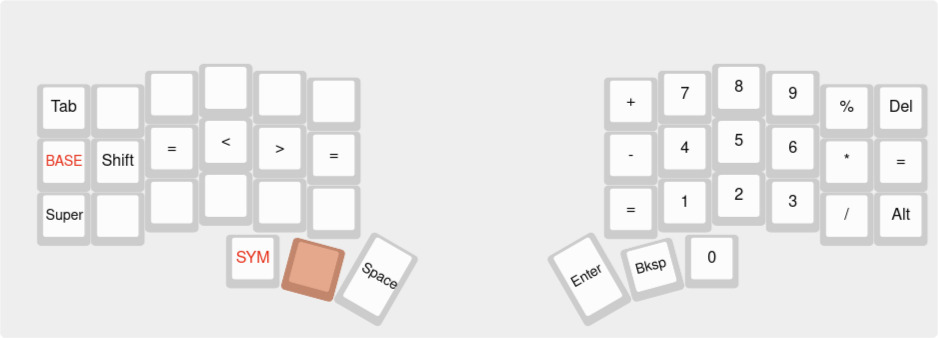
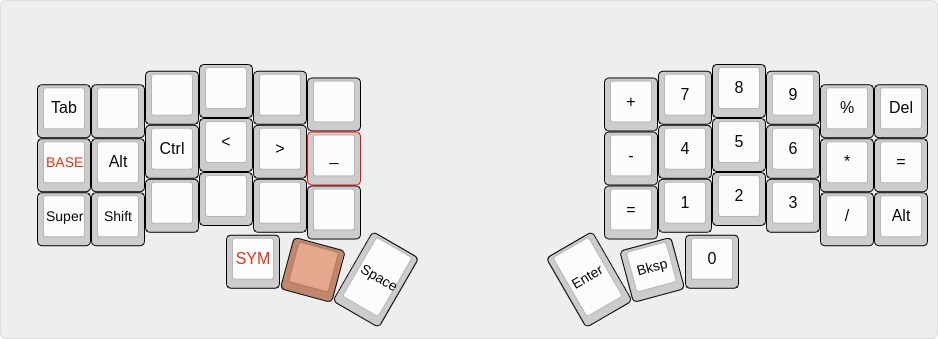
add alt/ctrl/_ to the numpad layer

Changed region(s): [[0.5874, 0.1775, 0.9893, 0.9763], [0.0309, 0.1775, 0.4328, 0.9467], [0.4328, 0.7396, 0.4638, 0.7988]]

diff --git a/keyboards/crkbd/keymaps/pogues/keymap.c b/keyboards/crkbd/keymaps/pogues/keymap.c
@@ -43,8 +43,9 @@ enum userspace_layers {
 #define L_MOTION (1 << LMOV)
 
 #define MY_CESC MT(MOD_LCTL, KC_ESC)
+#define MY_CQOT MT(MOD_LCTL, KC_QUOT)
 #define MY_S_SL MT(MOD_LSFT, KC_SLSH)
-#define MY_S_Z  MT(MOD_LSFT, KC_Z)
+#define MY_S_Z  MT(MOD_LSFT, KC_Z)CTRL
 #define MY_TBUI MT(MOD_LGUI, KC_TAB)
 #define MY_CLFT C(KC_LEFT)
 #define MY_CRGT C(KC_RGHT)
@@ -67,17 +68,14 @@ enum tap_dance_codes {
     DC7,
     DC8,
     DC9,
-    // 
-    DC10,
-    DC11,
 };
 
 const uint16_t PROGMEM keymaps[][MATRIX_ROWS][MATRIX_COLS] = {
   [LCMK] = LAYOUT_split_3x6_3(
   //,-----------------------------------------------------.                    ,-----------------------------------------------------.
-      MY_TBUI,    KC_Q,    KC_W,    KC_F,    KC_P,    KC_G,                         KC_J,    KC_L,    KC_U,    KC_Y,TD(DC10), KC_BSPC,
+      MY_TBUI,    KC_Q,    KC_W,    KC_F,    KC_P,    KC_G,                         KC_J,    KC_L,    KC_U,    KC_Y, KC_SCLN, KC_BSPC,
   //|--------+--------+--------+--------+--------+--------|                    |--------+--------+--------+--------+--------+--------|
-      MY_CESC,    KC_A,    KC_R,    KC_S,    KC_T,    KC_D,                         KC_H,    KC_N,    KC_E,    KC_I,    KC_O,TD(DC11),
+      MY_CESC,    KC_A,    KC_R,    KC_S,    KC_T,    KC_D,                         KC_H,    KC_N,    KC_E,    KC_I,    KC_O, MY_CQOT,
   //|--------+--------+--------+--------+--------+--------|                    |--------+--------+--------+--------+--------+--------|
 OSM(MOD_LSFT),  MY_S_Z,    KC_X,    KC_C,    KC_V,    KC_B,                         KC_K,    KC_M, KC_COMM,  KC_DOT, MY_S_SL, KC_LALT,
   //|--------+--------+--------+--------+--------+--------+--------|  |--------+--------+--------+--------+--------+--------+--------|
@@ -90,7 +88,7 @@ OSM(MOD_LSFT),  MY_S_Z,    KC_X,    KC_C,    KC_V,    KC_B,                     
   //,-----------------------------------------------------.                    ,-----------------------------------------------------.
       _______, XXXXXXX, XXXXXXX, XXXXXXX, XXXXXXX, XXXXXXX,                      KC_PLUS, TD(DC7), TD(DC8), TD(DC9), KC_PERC,  KC_DEL,
   //|--------+--------+--------+--------+--------+--------|                    |--------+--------+--------+--------+--------+--------|
-     TO(LCMK), KC_LSFT,  KC_EQL,   KC_LT,   KC_GT,  KC_EQL,                      KC_MINS, TD(DC4), TD(DC5), TD(DC6), KC_ASTR,  KC_EQL,
+     TO(LCMK), KC_LALT, KC_LCTL,   KC_LT,   KC_GT, KC_UNDS,                      KC_MINS, TD(DC4), TD(DC5), TD(DC6), KC_ASTR,  KC_EQL,
   //|--------+--------+--------+--------+--------+--------|                    |--------+--------+--------+--------+--------+--------|
       KC_LGUI, KC_LSFT, XXXXXXX, XXXXXXX, XXXXXXX, XXXXXXX,                       KC_EQL, TD(DC1), TD(DC2), TD(DC3), KC_SLSH, _______,
   //|--------+--------+--------+--------+--------+--------+--------|  |--------+--------+--------+--------+--------+--------+--------|
@@ -193,8 +191,6 @@ qk_tap_dance_action_t tap_dance_actions[] = {
     [DC7] = TD_TAP_HOLD_ACTION(7),
     [DC8] = TD_TAP_HOLD_ACTION(8),
     [DC9] = TD_TAP_HOLD_ACTION(9),
-    [DC10] = TD_TAP_HOLD_ACTION(semicolon),
-    [DC11] = ACTION_TAP_DANCE_FN_ADVANCED(on_dance_quote, dance_quote_finished, dance_quote_reset),
 };
 /*******************************************************************************
  * End Tap dance functions
